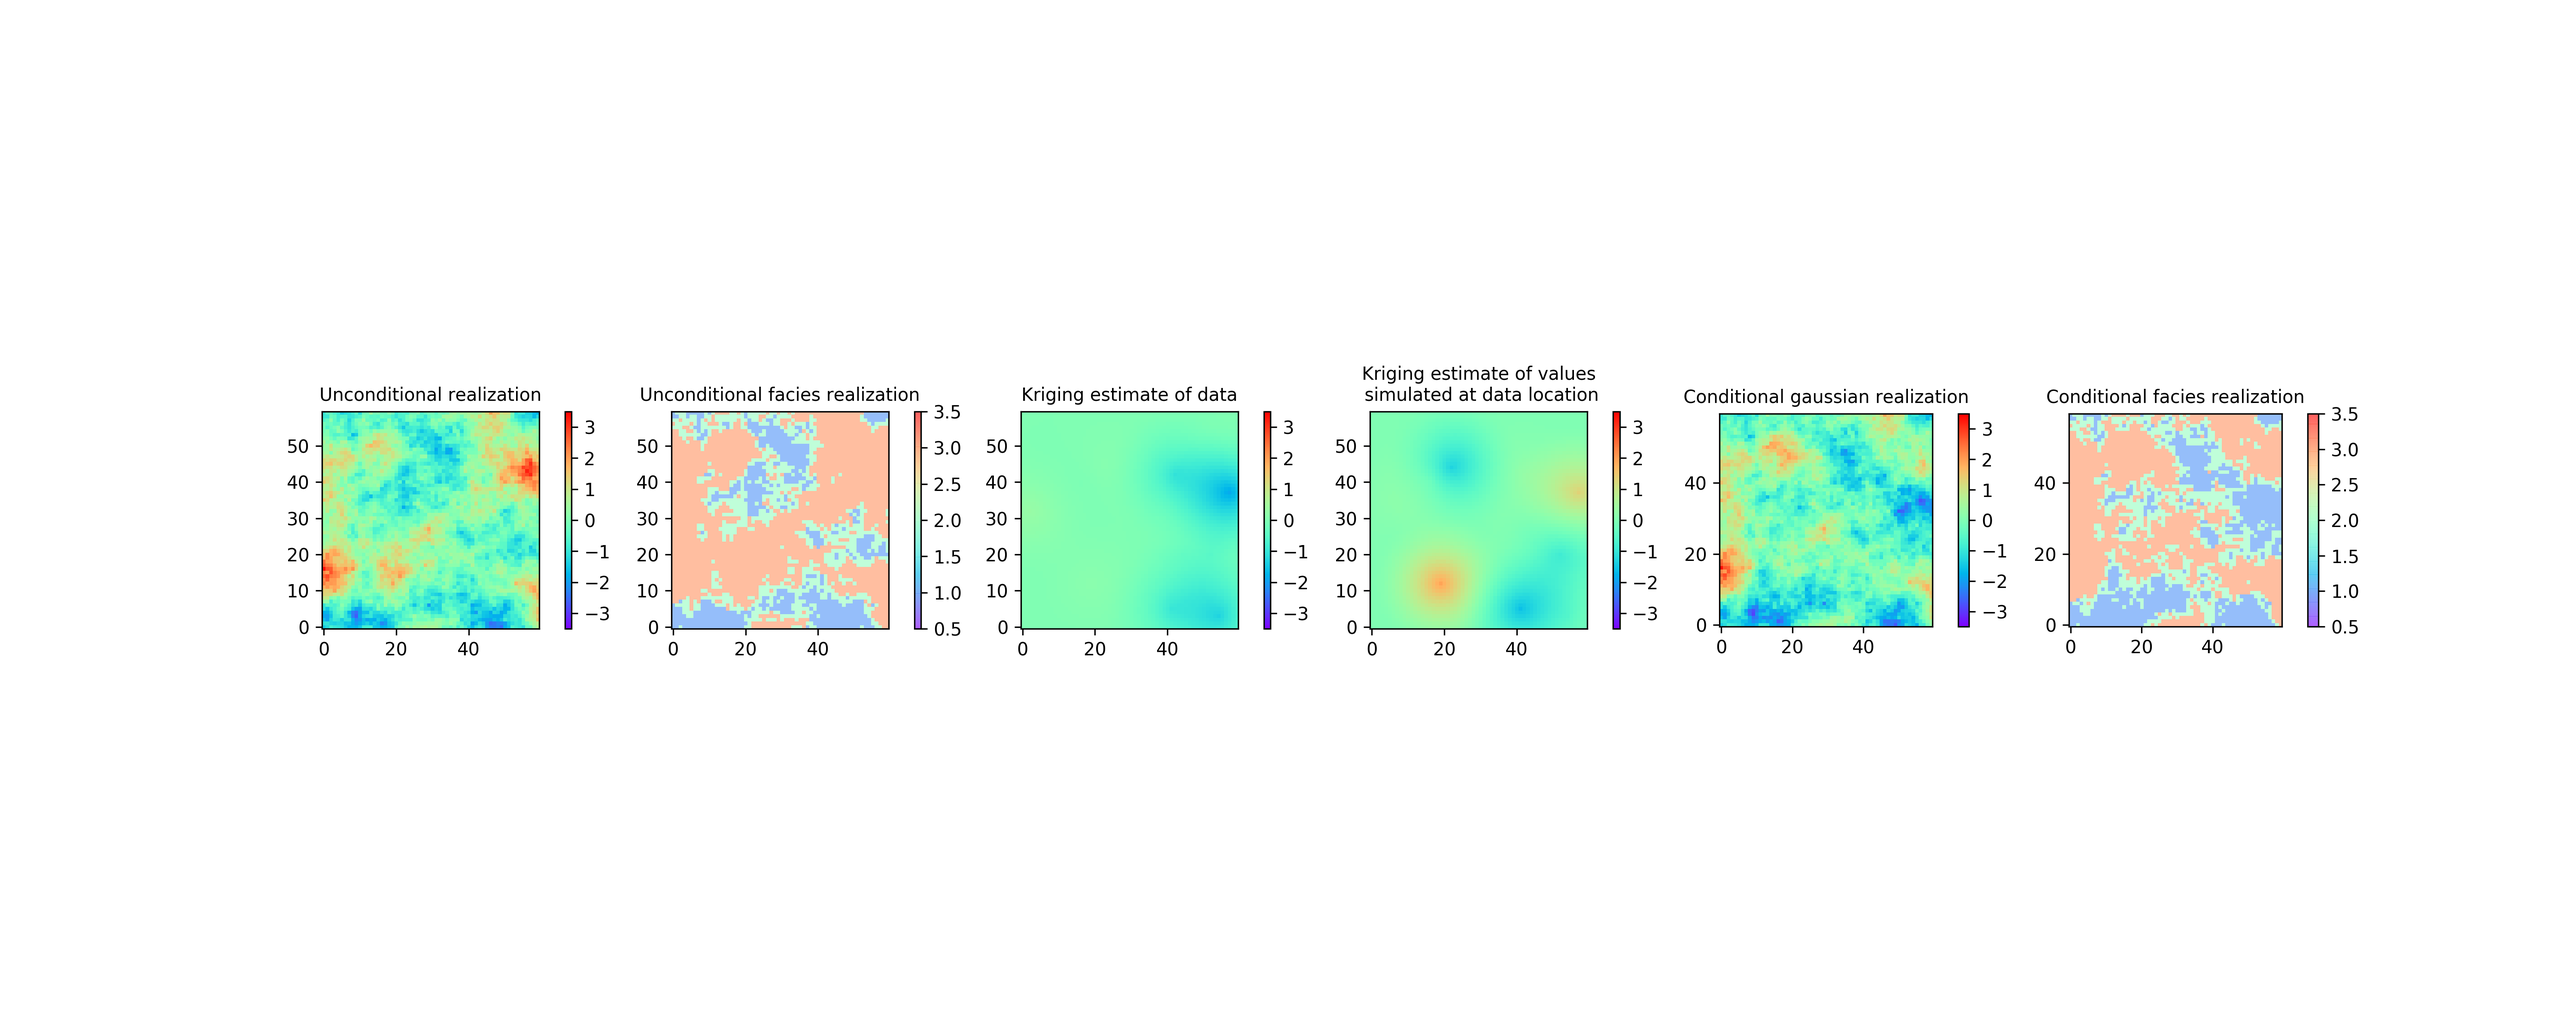
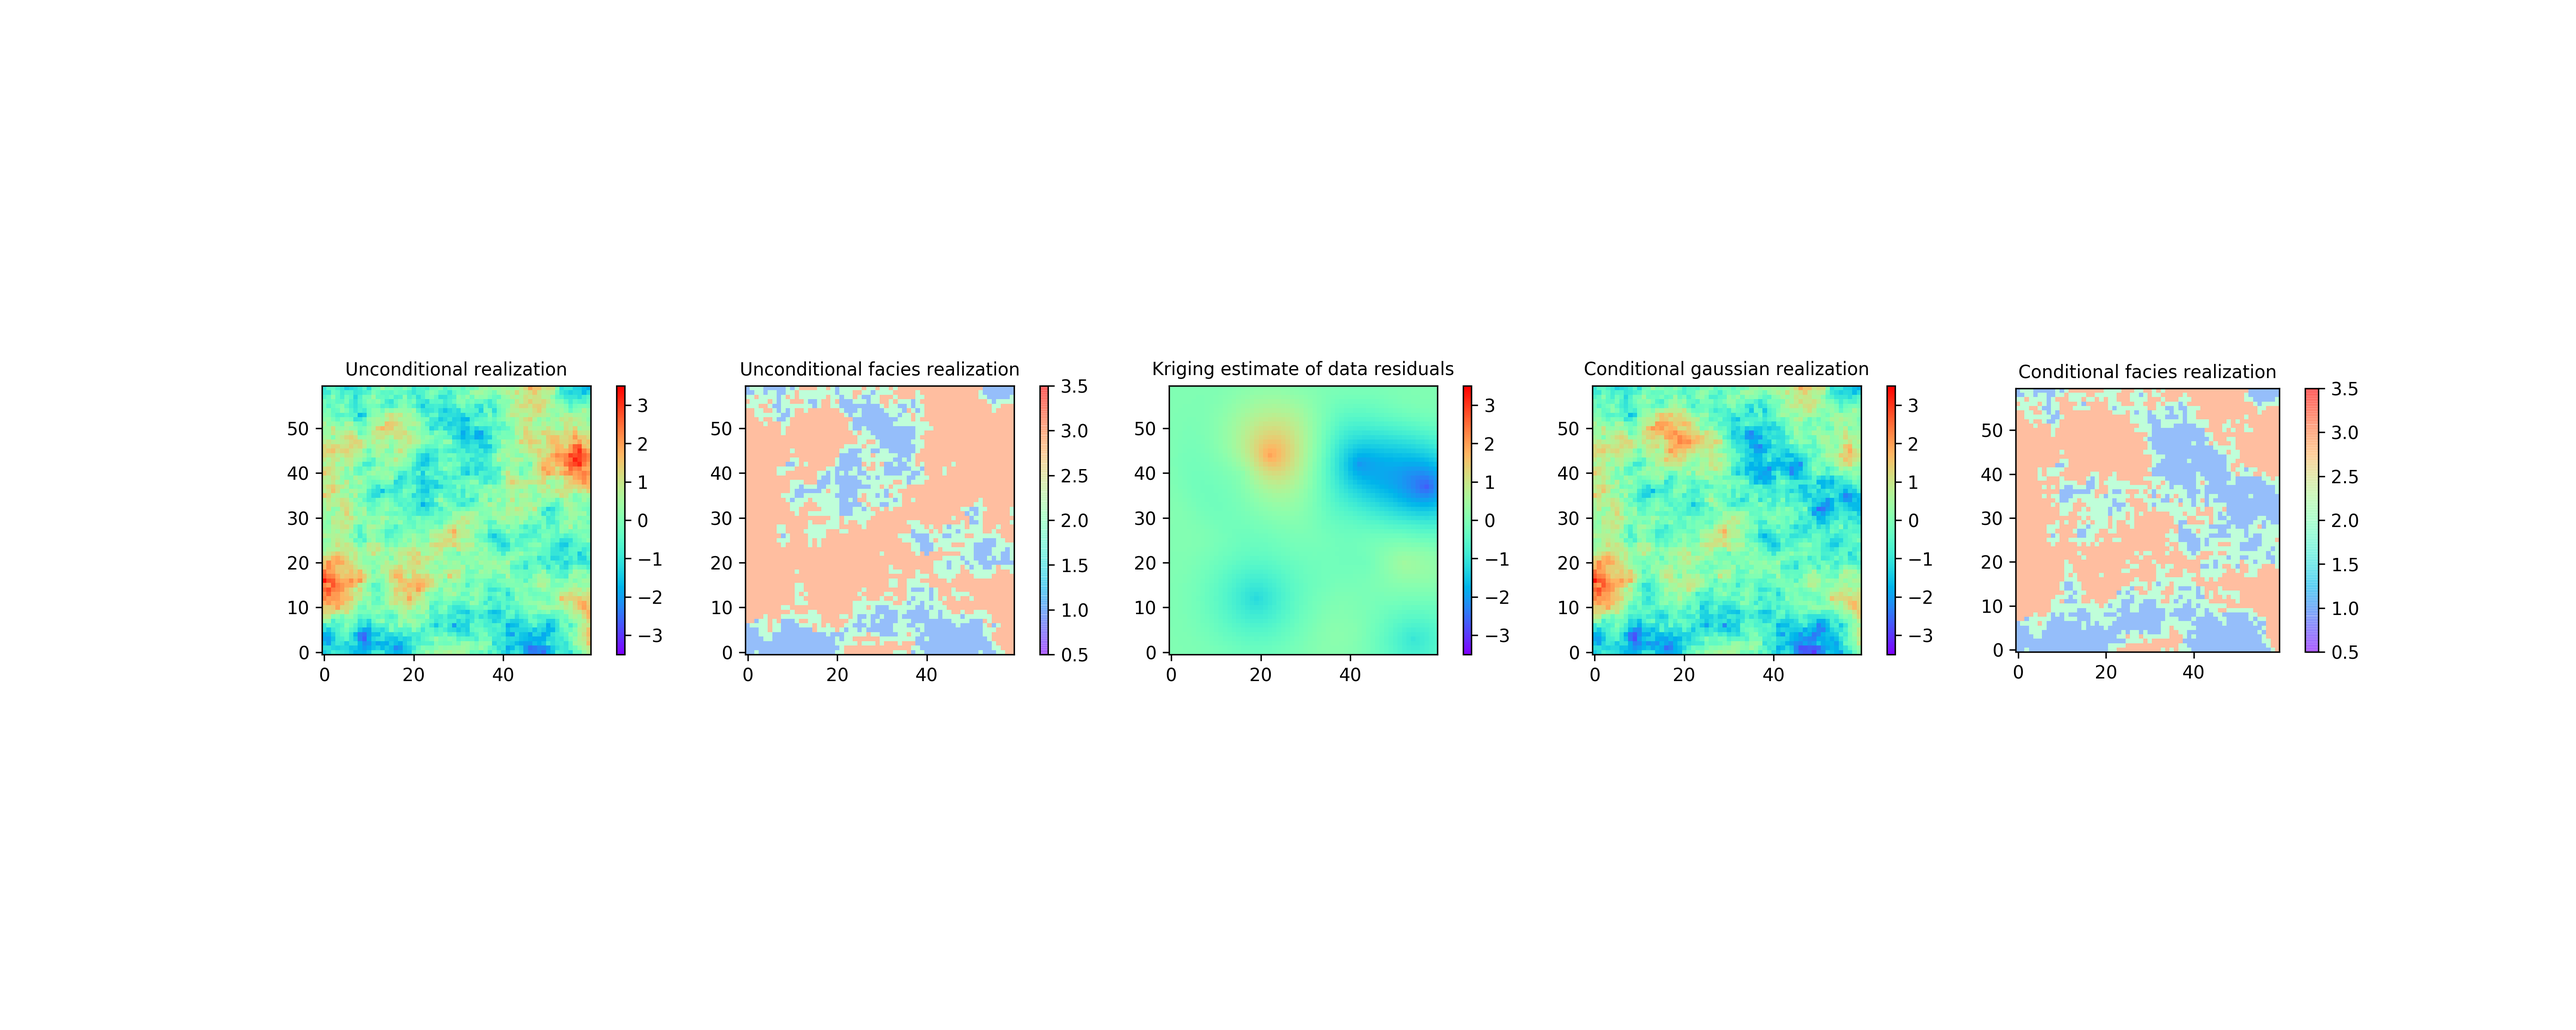
Updated simple kriging and gibbs sampling functions in tpg.py and modified conditionTruncatedGaussian.py accordingly

Changed region(s): [[0.1247, 0.3438, 0.9038, 0.6562]]

diff --git a/conditionTruncatedGaussian.py b/conditionTruncatedGaussian.py
@@ -41,8 +41,9 @@ lineIndices_data, colIndices_data = tpg.findDataCellCoordinates(x_data, y_data, 
 it_max = 200 # total number of iterations
 it_st = 100 # iteration at which the distribution is sampled from (should be after the burn-in period; check convergence)
 thresholds = [-0.78, -0.16] # use the same thresholds as the ones used to obtain the reference
+model = tpg.model_isotropic('spherical', 1, 10) # model to represent spatial variability of data
 pseudoData_ini = tpg.convertFacies2IniPseudoData_tg(synFaciesData[:, 2], thresholds)
-pseudoData = tpg.gibbsSampling(pseudoData_ini, synFaciesData[:, 0], synFaciesData[:, 1], thresholds, it_max, it_st)
+pseudoData = tpg.gibbsSampling(pseudoData_ini, model, synFaciesData[:, 0], synFaciesData[:, 1], thresholds, it_max, it_st)
 
 # Generate/Load existing unconditional gaussian simulation
 #gaussian_uc = tpg.genGaussian2DSim_SGSim_iso(NX, NY, dx, dy, 'spherical', 10) 
@@ -52,69 +53,73 @@ gaussian_uc = np.loadtxt('gaussian_uc.txt')
 
 # Truncate unconditional gaussian realization to facies
 facies_uc, props_uc = tpg.truncGaussian2faciesUsingThresholds(gaussian_uc, thresholds)
+print('Observed/Simulated facies at data locations before hard conditioning')
 print(synFaciesData[:, 2])
 print(facies_uc[lineIndices_data, colIndices_data])
 print(props_uc)
  
-# Compute kriging estimate of data
-sk_est_data, sk_var_data, sk_weights_data = tpg.simpleKrig_vector(x_data, y_data, pseudoData, XX.reshape(-1, 1), YY.reshape(-1, 1), 'spherical', 10, 0, 1)
-sk_data_grid = sk_est_data.reshape(NY, NX)
-#print(pseudoData)
-#print(sk_data_grid[lineIndices_data, colIndices_data]) # check kriged values at data locations
-
-# Compute kriging estimate of values simulated at data location
+## Compute kriging estimate of the residuals
 simData_dataLoc = gaussian_uc[lineIndices_data, colIndices_data]
-sk_est_simData, sk_var_simData, sk_weights_simData = tpg.simpleKrig_vector(x_data, y_data, simData_dataLoc, XX.reshape(-1, 1), YY.reshape(-1, 1), 'spherical', 10, 0, 1)
-sk_simData_grid = sk_est_simData.reshape(NY, NX)
-#print(simData_dataLoc)
-#print(sk_simData_grid[lineIndices_data, colIndices_data]) # check kriged values at data locations
+dataResiduals = pseudoData - simData_dataLoc
+sk_est_dataResiduals, sk_var_dataResiduals, sk_weights_dataResiduals = tpg.simpleKrig_vector(x_data, y_data, dataResiduals, XX.reshape(-1, 1), YY.reshape(-1, 1), model, 0, 1)
+sk_dataResiduals_grid = sk_est_dataResiduals.reshape(NY, NX)
+
+## Compute kriging estimate of data
+#sk_est_data, sk_var_data, sk_weights_data = tpg.simpleKrig_vector(x_data, y_data, pseudoData, XX.reshape(-1, 1), YY.reshape(-1, 1), model, 0, 1)
+#sk_data_grid = sk_est_data.reshape(NY, NX)
+##print(pseudoData)
+##print(sk_data_grid[lineIndices_data, colIndices_data]) # check kriged values at data locations
+#
+## Compute kriging estimate of values simulated at data location
+#simData_dataLoc = gaussian_uc[lineIndices_data, colIndices_data]
+#sk_est_simData, sk_var_simData, sk_weights_simData = tpg.simpleKrig_vector(x_data, y_data, simData_dataLoc, XX.reshape(-1, 1), YY.reshape(-1, 1), model, 0, 1)
+#sk_simData_grid = sk_est_simData.reshape(NY, NX)
+##print(simData_dataLoc)
+##print(sk_simData_grid[lineIndices_data, colIndices_data]) # check kriged values at data locations
 
 # Condition unconditional gaussian simulation with gaussian pseudo data
-gaussian_c = sk_data_grid + (gaussian_uc - sk_simData_grid)
+gaussian_c = gaussian_uc + sk_dataResiduals_grid
+#gaussian_c = sk_data_grid + (gaussian_uc - sk_simData_grid) # equivalent to previous line
 np.savetxt('gaussian_c.txt', gaussian_c)
 
 # Truncate conditional gaussian realization to facies
 facies_c, props_c = tpg.truncGaussian2faciesUsingThresholds(gaussian_c, thresholds)
+print('Observed/Simulated facies at data locations after hard conditioning')
 print(synFaciesData[:, 2])
 print(facies_c[lineIndices_data, colIndices_data])
 print(props_c)
 
 # Display unconditional realization/kriging estimate of data/kriging estimate of values simulated at data locations/conditional simulation/conditional facies realization
 plt.close()
-fig, (ax1, ax2, ax3, ax4, ax5, ax6) = plt.subplots(1, 6, figsize=(20,8))
+fig, (ax1, ax2, ax3, ax4, ax5) = plt.subplots(1, 5, figsize=(20,8))
 fig.subplots_adjust(wspace=0.4)
 minVal = -3.5
 maxVal = 3.5
 im1 = ax1.imshow(gaussian_uc, vmin=minVal, vmax=maxVal, cmap='rainbow', origin='lower')
 im2 = ax2.imshow(facies_uc, cmap='rainbow', vmin = np.min(facies_uc)-.5, vmax = np.max(facies_uc)+.5, alpha=0.5, origin='lower')
-im3 = ax3.imshow(sk_est_data.reshape(NY, NX), vmin=minVal, vmax=maxVal, cmap='rainbow', origin='lower')
-im4 = ax4.imshow(sk_est_simData.reshape(NY, NX), vmin=minVal, vmax=maxVal, cmap='rainbow', origin='lower')
-im5 = ax5.imshow(gaussian_c, vmin=minVal, vmax=maxVal, cmap='rainbow', origin='lower')
-im6 = ax6.imshow(facies_c, cmap='rainbow', vmin = np.min(facies_c)-.5, vmax = np.max(facies_c)+.5, alpha=0.5, origin='lower')
+im3 = ax3.imshow(sk_est_dataResiduals.reshape(NY, NX), vmin=minVal, vmax=maxVal, cmap='rainbow', origin='lower')
+im4 = ax4.imshow(gaussian_c, vmin=minVal, vmax=maxVal, cmap='rainbow', origin='lower')
+im5 = ax5.imshow(facies_c, cmap='rainbow', vmin = np.min(facies_c)-.5, vmax = np.max(facies_c)+.5, alpha=0.5, origin='lower')
 ax1.set_title('Unconditional realization', fontsize=10)
 ax2.set_title('Unconditional facies realization', fontsize=10)
-ax3.set_title('Kriging estimate of data', fontsize=10)
-ax4.set_title('Kriging estimate of values\n simulated at data location', fontsize=10)
-ax5.set_title('Conditional gaussian realization', fontsize=10)
-ax6.set_title('Conditional facies realization', fontsize=10)
+ax3.set_title('Kriging estimate of data residuals', fontsize=10)
+ax4.set_title('Conditional gaussian realization', fontsize=10)
+ax5.set_title('Conditional facies realization', fontsize=10)
 divider1 = make_axes_locatable(ax1)
 divider2 = make_axes_locatable(ax2)
 divider3 = make_axes_locatable(ax3)
 divider4 = make_axes_locatable(ax4)
 divider5 = make_axes_locatable(ax5)
-divider6 = make_axes_locatable(ax6)
 cax1 = divider1.append_axes("right", size="3%", pad=0.2)
 cax2 = divider2.append_axes("right", size="3%", pad=0.2)
 cax3 = divider3.append_axes("right", size="3%", pad=0.2)
 cax4 = divider4.append_axes("right", size="3%", pad=0.2)
 cax5 = divider5.append_axes("right", size="5%", pad=0.2)
-cax6 = divider6.append_axes("right", size="5%", pad=0.2)
 cbar1 = plt.colorbar(im1, cax=cax1)
 cbar2 = plt.colorbar(im2, cax=cax2)
 cbar3 = plt.colorbar(im3, cax=cax3)
 cbar4 = plt.colorbar(im4, cax=cax4)
 cbar5 = plt.colorbar(im5, cax=cax5)
-cbar6 = plt.colorbar(im6, cax=cax6)
 
 plt.savefig('conditioningTG.png', dpi=300)
 

diff --git a/tpg.py b/tpg.py
@@ -13,7 +13,7 @@ from matplotlib import pyplot as plt
 from mpl_toolkits.axes_grid1 import make_axes_locatable
 
 
-def simpleKrig_vector(x, y, v, xi, yi, varioType, L, mu, C0):
+def simpleKrig_vector(x, y, v, xi, yi, model, mu, C0):
 	"""
 	Simple kriging (for more than one point)
 	
@@ -35,8 +35,8 @@ def simpleKrig_vector(x, y, v, xi, yi, varioType, L, mu, C0):
 	else:
 		X = np.hstack((x[:, np.newaxis], y[:, np.newaxis]))
 		d = squareform(pdist(X))
-	C = C0 - variogram(varioType, d, C0, L)
-	c = np.transpose(C0 - variogram(varioType, np.sqrt((xi-x)**2 + (yi-y)**2), C0, L))
+	C = C0 - model.variogram(d)
+	c = np.transpose(C0 - model.variogram(np.sqrt((xi-x)**2 + (yi-y)**2)))
 #	l = solve(C, c)
 	l = lstsq(C, c)[0]
 
@@ -46,7 +46,7 @@ def simpleKrig_vector(x, y, v, xi, yi, varioType, L, mu, C0):
 	return v_est, v_var, l
 
 
-def simpleKrig(x, y, v, xi, yi, varioType, L, mu, C0):
+def simpleKrig(x, y, v, xi, yi, model, mu, C0):
 	"""
 	Simple kriging (for one point only)
 
@@ -68,8 +68,8 @@ def simpleKrig(x, y, v, xi, yi, varioType, L, mu, C0):
 	else:
 		X = np.hstack((x[:, np.newaxis], y[:, np.newaxis]))
 		d = squareform(pdist(X))
-	C = C0 - variogram(varioType, d, C0, L)
-	c = C0 - variogram(varioType, np.sqrt((xi-x)**2 + (yi-y)**2), C0, L)
+	C = C0 - model.variogram(d)
+	c = C0 - model.variogram(np.sqrt((xi-x)**2 + (yi-y)**2))
 	l = solve(C,c)
 
 	v_est = np.sum(l*(v - mu)) + mu
@@ -1081,7 +1081,7 @@ def convertFacies2IniPseudoData_tpg_g2(faciesObs, rule_type):
 	return pseudoData
 
 
-def gibbsSampling(pseudoData_ini, x_faciesObs, y_faciesObs, thresholds, nbIter, it_st):
+def gibbsSampling(pseudoData_ini, model, x_faciesObs, y_faciesObs, thresholds, nbIter, it_st):
 	"""
 	"""
 
@@ -1105,12 +1105,12 @@ def gibbsSampling(pseudoData_ini, x_faciesObs, y_faciesObs, thresholds, nbIter, 
 	while j <= nbIter:
 		for i in np.arange(nbOfData):
 			if i == 0:
-				pseudoData_est_i, pseudoData_var_i, l_i = simpleKrig(x_faciesObs[i+1:], y_faciesObs[i+1:], pseudoData_allIter[i+1:, j-1], x_faciesObs[i], y_faciesObs[i], 'exponential', 15, 0, 1)
+				pseudoData_est_i, pseudoData_var_i, l_i = simpleKrig(x_faciesObs[i+1:], y_faciesObs[i+1:], pseudoData_allIter[i+1:, j-1], x_faciesObs[i], y_faciesObs[i], model, 0, 1)
 				pseudoData_est_allIter[i, j-1] = pseudoData_est_i
 				pseudoData_var_allIter[i, j-1] = pseudoData_var_i
 				
 			else:
-				pseudoData_est_i, pseudoData_var_i, l_i = simpleKrig(np.concatenate((x_faciesObs[0:i], x_faciesObs[i+1:])), np.concatenate((y_faciesObs[0:i], y_faciesObs[i+1:])), np.concatenate((pseudoData_est_allIter[0:i, j-1], pseudoData_est_allIter[i+1:, j-1])), x_faciesObs[i], y_faciesObs[i], 'spherical', 10, 0, 1)	
+				pseudoData_est_i, pseudoData_var_i, l_i = simpleKrig(np.concatenate((x_faciesObs[0:i], x_faciesObs[i+1:])), np.concatenate((y_faciesObs[0:i], y_faciesObs[i+1:])), np.concatenate((pseudoData_est_allIter[0:i, j-1], pseudoData_est_allIter[i+1:, j-1])), x_faciesObs[i], y_faciesObs[i], model, 0, 1)	
 				pseudoData_est_allIter[i, j-1] = pseudoData_est_i
 				pseudoData_var_allIter[i, j-1] = pseudoData_var_i
 		
